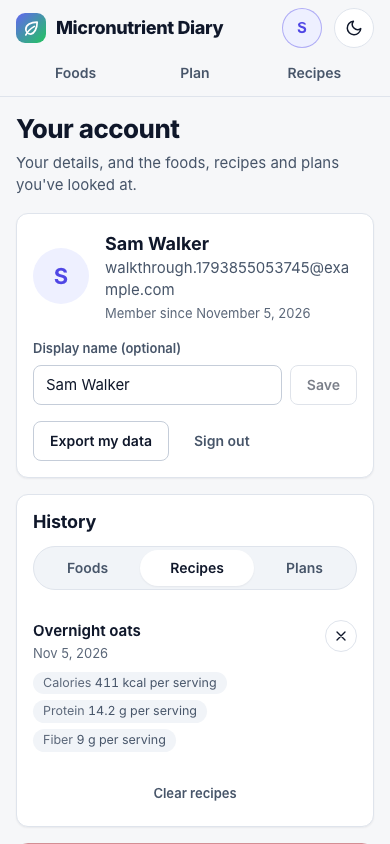
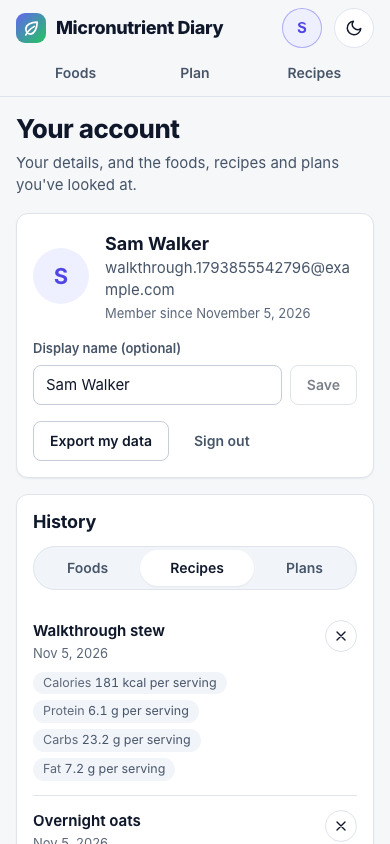
feat(accounts): record analyzed recipes in history
Each analysis is one history row, updated in place after edits. Only a summary
is stored, a nutrient with no data is left out rather than shown as 0, and lower
bounds and photo estimates stay marked as they are in the analyzer.

diff --git a/food-nutrition-app/lib/recipes/history.test.ts b/food-nutrition-app/lib/recipes/history.test.ts
@@ -1,0 +1,77 @@
+import { describe, it } from 'node:test';
+import assert from 'node:assert/strict';
+import { historySummary } from '@/lib/auth/history-summary';
+import { HISTORY_LIMITS, validateHistoryInput } from '@/lib/user-store/history';
+import { recipeHistoryItem } from './history';
+import type { AnalyzedRecipe } from './types';
+
+const recipe = (over: Partial<AnalyzedRecipe> = {}): AnalyzedRecipe => ({
+    version: 1,
+    id: '6f1c2a54-9f0b-4d7e-8a11-0d9a7c1b2e3f',
+    title: 'Lentil soup',
+    servings: 4,
+    source: 'text',
+    platedMeal: false,
+    createdAt: '2026-11-05T00:00:00.000Z',
+    updatedAt: '2026-11-05T00:00:00.000Z',
+    ingredients: [],
+    perServing: { calories: 320.4, protein_g: 18.25, carbohydrate_g: 40, total_fat_g: 6, iron_mg: 3.1 },
+    incomplete: [],
+    servingGrams: 350,
+    provider: null,
+    ...over,
+} as AnalyzedRecipe);
+
+describe('recipeHistoryItem', () => {
+    it('keeps the same id across edits and links to the analyzer', () => {
+        const item = recipeHistoryItem(recipe());
+        assert.equal(item.kind, 'recipe');
+        assert.equal(item.itemId, recipe().id);
+        assert.equal(item.title, 'Lentil soup');
+        assert.equal(item.href, '/recipes');
+    });
+
+    it('shows per-serving calories and protein on the history row', () => {
+        assert.deepEqual(historySummary(recipeHistoryItem(recipe()).data), [
+            { label: 'Calories', value: '320 kcal per serving' },
+            { label: 'Protein', value: '18.3 g per serving' },
+            { label: 'Carbs', value: '40 g per serving' },
+            { label: 'Fat', value: '6 g per serving' },
+        ]);
+    });
+
+    it('leaves out nutrients with no data instead of showing 0', () => {
+        const facts = historySummary(recipeHistoryItem(recipe({ perServing: { calories: 200, protein_g: null } })).data);
+        assert.deepEqual(facts, [{ label: 'Calories', value: '200 kcal per serving' }]);
+    });
+
+    it('keeps a real zero', () => {
+        const facts = historySummary(recipeHistoryItem(recipe({ perServing: { total_fat_g: 0 } })).data);
+        assert.deepEqual(facts, [{ label: 'Fat', value: '0 g per serving' }]);
+    });
+
+    it('marks lower bounds, as the analyzer does', () => {
+        const facts = historySummary(recipeHistoryItem(recipe({ incomplete: ['calories', 'iron_mg'] })).data);
+        assert.equal(facts[0].value, '≥ 320 kcal per serving');
+        assert.equal(facts[1].value, '18.3 g per serving');
+    });
+
+    it('says when the numbers are a rough estimate from a photo', () => {
+        const facts = historySummary(recipeHistoryItem(recipe({ platedMeal: true })).data);
+        assert.deepEqual(facts.at(-1), { label: 'Estimate', value: 'from a photo' });
+        assert.equal(facts.length, 5, 'with every nutrient present, the estimate note still fits');
+    });
+
+    it('always passes the API validation, even with a very long title and many ingredients', () => {
+        const ingredients = Array.from({ length: 500 }, () => ({ name: 'x'.repeat(200) })) as unknown as AnalyzedRecipe['ingredients'];
+        const item = recipeHistoryItem(recipe({ title: 'T'.repeat(5000), ingredients }));
+        const valid = validateHistoryInput(item);
+        assert.equal(valid.title.length, HISTORY_LIMITS.titleLength);
+        assert.ok(JSON.stringify(valid.data).length < 500, 'a summary, not the recipe');
+        assert.ok(!JSON.stringify(valid.data).includes('xxx'), 'ingredients stay out of history');
+    });
+
+    it('fits the fallback id the analyzer uses outside a secure context', () => {
+        assert.equal(validateHistoryInput(recipeHistoryItem(recipe({ id: 'r-mhl2k3-a9f' }))).itemId, 'r-mhl2k3-a9f');
+    });
+});

diff --git a/food-nutrition-app/lib/auth/history-summary.ts b/food-nutrition-app/lib/auth/history-summary.ts
@@ -5,6 +5,9 @@
  *   { calories: 320, protein: 18, perServing: true }           known numeric keys
  *   { caloriesPerServing: 320, proteinPerServing: 18 }         the same, per serving
  *   { summary: [{ label: 'Iron', value: '2.1 mg' }] }          anything else, ready to show
+ *
+ * With the numeric forms, `incomplete: ['calories']` marks a value as a lower bound
+ * and `estimated: true` adds a note that the numbers are a rough photo estimate.
  */
 
 export interface SummaryFact {
@@ -36,6 +39,7 @@ export function historySummary(data: unknown): SummaryFact[] {
             .slice(0, MAX_FACTS);
     }
 
+    const lowerBounds = Array.isArray(d.incomplete) ? d.incomplete : [];
     const facts: SummaryFact[] = [];
     for (const { label, keys, unit } of NUTRIENTS) {
         for (const key of keys) {
@@ -43,11 +47,13 @@ export function historySummary(data: unknown): SummaryFact[] {
             const plain = d[key];
             const value = typeof perServing === 'number' ? perServing : plain;
             if (typeof value !== 'number' || !Number.isFinite(value)) continue;
+            const prefix = lowerBounds.includes(key) ? '≥ ' : '';
             const suffix = typeof perServing === 'number' || d.perServing === true ? ' per serving' : '';
-            facts.push({ label, value: `${formatNumber(value)} ${unit}${suffix}` });
+            facts.push({ label, value: `${prefix}${formatNumber(value)} ${unit}${suffix}` });
             break;
         }
     }
+    if (d.estimated === true) return [...facts.slice(0, MAX_FACTS - 1), { label: 'Estimate', value: 'from a photo' }];
     return facts.slice(0, MAX_FACTS);
 }
 

diff --git a/food-nutrition-app/lib/recipes/history.ts b/food-nutrition-app/lib/recipes/history.ts
@@ -1,0 +1,37 @@
+import type { HistoryRecord } from '@/lib/auth/client';
+import { HISTORY_LIMITS } from '@/lib/user-store/history';
+import type { AnalyzedRecipe } from './types';
+
+/** Nutrient columns shown on a recipe's history row, and the name each goes by there. */
+const SUMMARY_NUTRIENTS = [
+    ['calories', 'calories'],
+    ['protein_g', 'protein'],
+    ['carbohydrate_g', 'carbs'],
+    ['total_fat_g', 'fat'],
+] as const;
+
+/**
+ * The account-history entry for an analyzed recipe. Only a small summary is kept, not
+ * the ingredient list, so it always fits the size cap. A nutrient with no data is left
+ * out rather than shown as 0, and a total that is only a lower bound stays marked as
+ * one, as it is in the analyzer.
+ */
+export function recipeHistoryItem(recipe: AnalyzedRecipe): HistoryRecord {
+    const data: Record<string, unknown> = { servings: recipe.servings };
+    const incomplete: string[] = [];
+    for (const [column, name] of SUMMARY_NUTRIENTS) {
+        const value = recipe.perServing[column];
+        if (typeof value !== 'number' || !Number.isFinite(value)) continue;
+        data[`${name}PerServing`] = value;
+        if (recipe.incomplete.includes(column)) incomplete.push(name);
+    }
+    if (incomplete.length > 0) data.incomplete = incomplete;
+    if (recipe.platedMeal) data.estimated = true;
+    return {
+        kind: 'recipe',
+        itemId: recipe.id,
+        title: recipe.title.slice(0, HISTORY_LIMITS.titleLength),
+        href: '/recipes',
+        data,
+    };
+}

diff --git a/food-nutrition-app/components/recipes/RecipesPage.tsx b/food-nutrition-app/components/recipes/RecipesPage.tsx
@@ -2,20 +2,21 @@
 
 import { useCallback } from 'react';
 import RecipeAnalyzer from './RecipeAnalyzer';
+import { recordHistory } from '@/lib/auth/client';
+import { recipeHistoryItem } from '@/lib/recipes/history';
 import type { AnalyzedRecipe } from '@/lib/recipes/types';
 
 /**
  * The one place that decides what happens to a finished analysis.
  *
  * `recipe` is plain JSON with a title and a stable `id`. This runs after the first
- * read and again, debounced, after edits, with the same id: treat it as an upsert.
- * Recent analyses are already kept in localStorage for anonymous visitors.
- *
- * TODO(coordinator, after the accounts merge): save to the signed-in user's history here.
+ * read and again, debounced, after edits, with the same id: an upsert in the
+ * signed-in person's history, which does nothing for anonymous visitors. Their recent
+ * analyses are kept in localStorage by the analyzer itself.
  */
 export default function RecipesPage() {
     const onRecipeAnalyzed = useCallback((recipe: AnalyzedRecipe) => {
-        void recipe;
+        void recordHistory(recipeHistoryItem(recipe));
     }, []);
 
     return <RecipeAnalyzer onRecipeAnalyzed={onRecipeAnalyzed} />;

diff --git a/docs/ACCOUNTS.md b/docs/ACCOUNTS.md
@@ -44,7 +44,7 @@ PORT=3604 npm run dev     # no other settings needed
    [auth] Sign-in link (printed instead of emailed; AUTH_EMAIL_TRANSPORT=console):
    [auth] http://localhost:3604/account/sign-in/confirm?token=...
    ```
-3. Open it and press **Sign in**. Open any food page, and it appears under **Foods** on `/account`.
+3. Open it and press **Sign in**. Open any food page, or analyze a recipe at `/recipes` (the offline demo provider needs no AI key), and it appears on `/account`.
 
 Data goes in `food-nutrition-app/.data/app.db` (gitignored, excluded from Docker images). Delete that folder to start over.
 
@@ -80,8 +80,15 @@ recordHistory({
 - `calories`/`kcal`, `protein`, `carbs`, `fat`, `fiber`
 - the same with `PerServing`, such as `proteinPerServing`, or a `perServing: true` flag
 - `summary: [{ label, value }]` for anything else
+- `incomplete: ['calories']` marks a value as a lower bound (shown with ≥), and `estimated: true` adds a "from a photo" note
 
-Food views are recorded in `components/food/onFoodViewed.ts`. The account control is `components/account/AccountMenu.tsx`, mounted in `components/shell/SiteHeader.tsx`.
+What's recorded today:
+
+- **Foods:** `components/food/onFoodViewed.ts`, once each time a food page opens. These rows have a title and link, but no nutrition yet, because `onFoodViewed` isn't given any.
+- **Recipes:** `components/recipes/RecipesPage.tsx`, through `lib/recipes/history.ts`. The analyzer calls this after the first read and again after edits with the same id, so one recipe stays one row. Only a summary is stored (per-serving calories, protein, carbs and fat, plus servings), not the ingredients. Rows link to `/recipes`, which opens the analyzer rather than that recipe, because saved analyses are only kept in that browser's `localStorage`.
+- **Plans:** nothing yet. The tab, API and display are ready, but the planner doesn't call `recordHistory`.
+
+The account control is `components/account/AccountMenu.tsx`, mounted in `components/shell/SiteHeader.tsx`.
 
 ### API
 

diff --git a/docs/RECIPES.md b/docs/RECIPES.md
@@ -54,7 +54,7 @@ The picker searches with the existing `/api/search`.
 
 ## Saving analyses
 
-`onRecipeAnalyzed` in `components/recipes/RecipesPage.tsx` is the single place to hook history into. It receives an `AnalyzedRecipe`: plain JSON with a title and a stable `id`. It runs after the first read and again after edits settle, so treat it as an upsert. Anonymous visitors' recent analyses are kept in `localStorage` (`recipes.recent.v1`).
+`onRecipeAnalyzed` in `components/recipes/RecipesPage.tsx` saves each analysis to a signed-in person's history ([ACCOUNTS.md](ACCOUNTS.md)). It receives an `AnalyzedRecipe`: plain JSON with a title and a stable `id`. It runs after the first read and again after edits settle, so treat it as an upsert. Anonymous visitors' recent analyses are kept in `localStorage` (`recipes.recent.v1`).
 
 "Add a serving to my plan" adds the recipe to the planner as a fixed-amount food with a negative id. `/api/optimize` passes unknown foods through unchanged.
 
